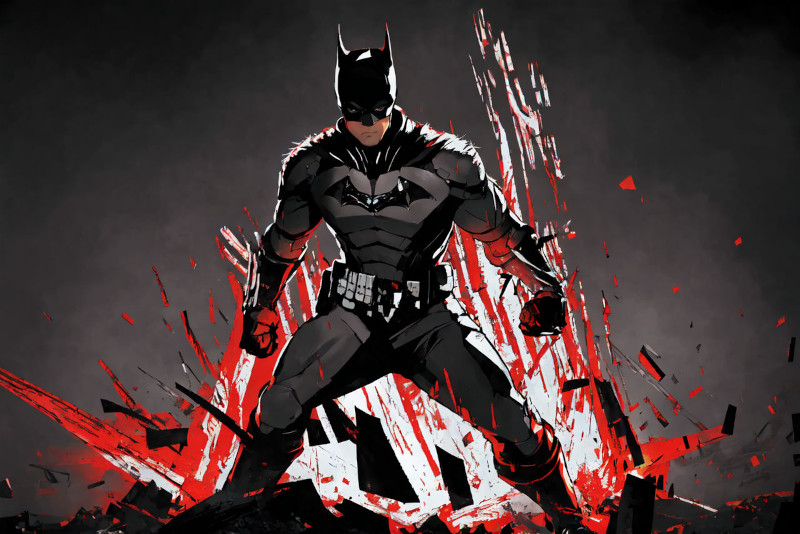
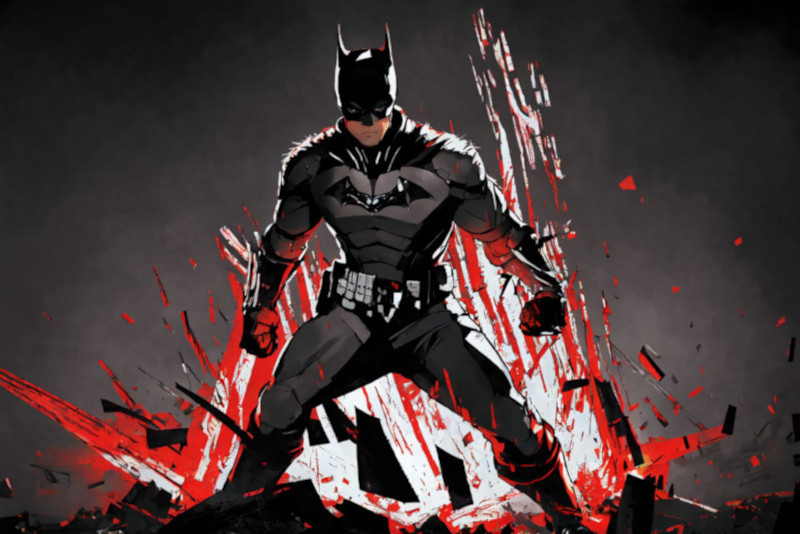
redimensionamento de imagem v2
esqueci de colocar a imagem flexível

diff --git a/index.html b/index.html
@@ -15,8 +15,8 @@
     <main>
         <p>Batman, também conhecido pelas alcunhas Homem-Morcego, Cavaleiro das Trevas e Maior Detetive do Mundo, é um personagem fictício e super-herói da editora norte-americana <a href="https://www.dc.com/" target="_blank">DC Comics &#x1F517;</a>, criado pelo escritor Bill Finger e o desenhista Bob Kane, aparecendo pela primeira vez na revista Detective Comics #27 (março de 1939) com o nome "Bat-Man". Hoje ele é um dos heróis mais populares do mundo.</p>
         <picture>
-            <source media="(max-width:640px)" srcset="imagens/batman-ia-p.jpg" type="image/jpeg">
-            <source media="(max-width:840px)" srcset="imagens/batman-ia-m.jpg" type="image/jpeg">
+            <source media="(max-width:400px)" srcset="imagens/batman-ia-p.jpg" type="image/jpeg">
+            <source media="(max-width:800px)" srcset="imagens/batman-ia-m.jpg" type="image/jpeg">
             <img src="imagens/batman-ia.jpg" alt="imagem batman">
         </picture>
         <p>Os pais dele morreram quando ele ainda era uma criança. Foram assassinados bem na sua frente. Ele foi criado sozinho em uma mansão enorme aos cuidados de seu mordomo Alfred. Com as lembranças de seu pai e sua mãe, o jovem Bruce Wayne poderia ter virado um assassino. Poderia querer destruir o mundo pelo que fizeram com seus pais. E, ainda assim, ele assimilou essa dor e transformou em esperança.</p> 

diff --git a/style.css b/style.css
@@ -27,6 +27,7 @@ header > h1{
     font-family: var(--fonte-titulo);
     font-variant: small-caps;
     font-size: 2.7em;
+    line-height: 1.2em;
 }
 header > p{
     font-family: var(--fonte-conteudo);
@@ -55,8 +56,7 @@ a:hover{
 }
 main img{
     padding: 20px 0px;
-    display: block;
-    margin: auto;
+    width: 100%;
 }
 aside{
     background-color: black;
